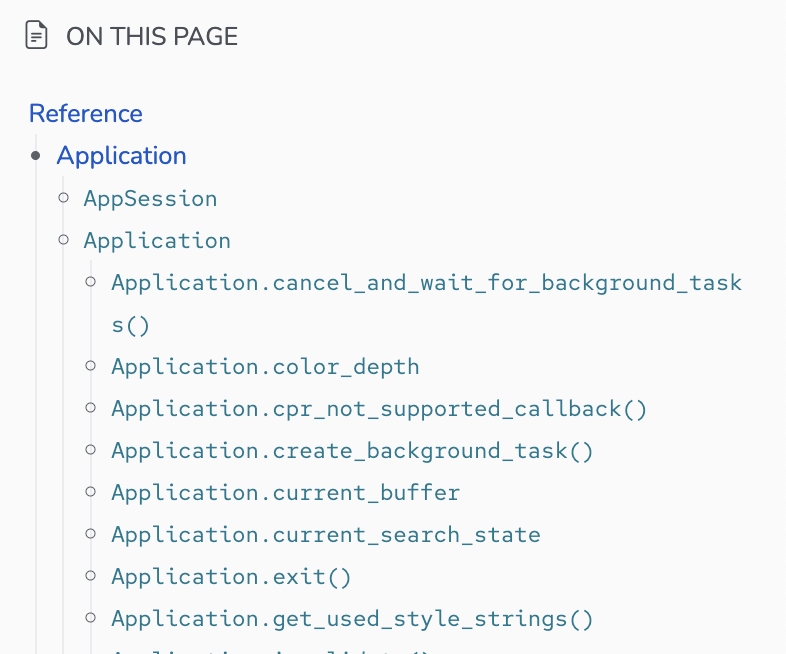
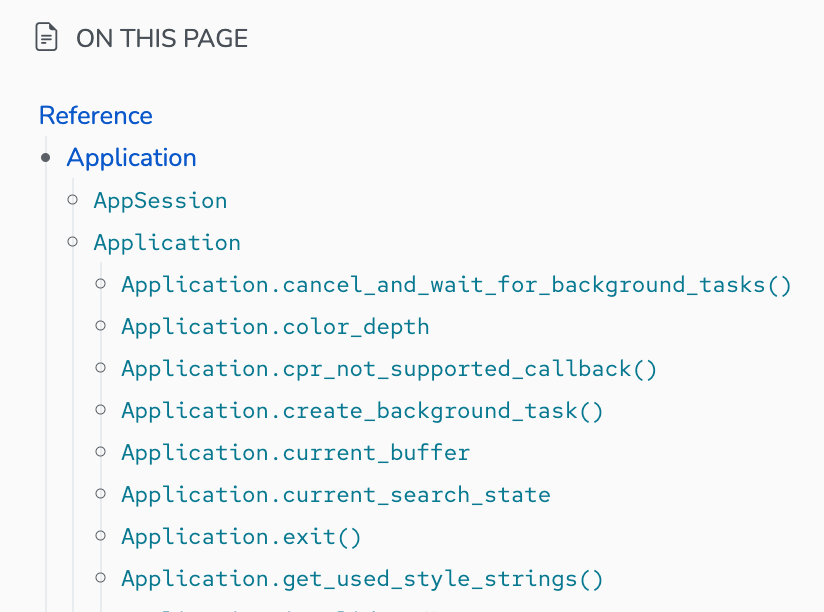
Update toc image

diff --git a/README.md b/README.md
@@ -25,7 +25,7 @@ By default the **index** shows the content folded. Opening or closing items is r
 
 The Table of Contents, displayed on the right side, spans itself to the right border of the browser to display long items, improving readability.
 
-<p align="center"><img width="393" height="327" src="docs/source/_static/img/toc.png"></p>
+<p align="center"><img width="412" height="306" src="docs/source/_static/img/toc.png"></p>
 
 ## Other features
 
